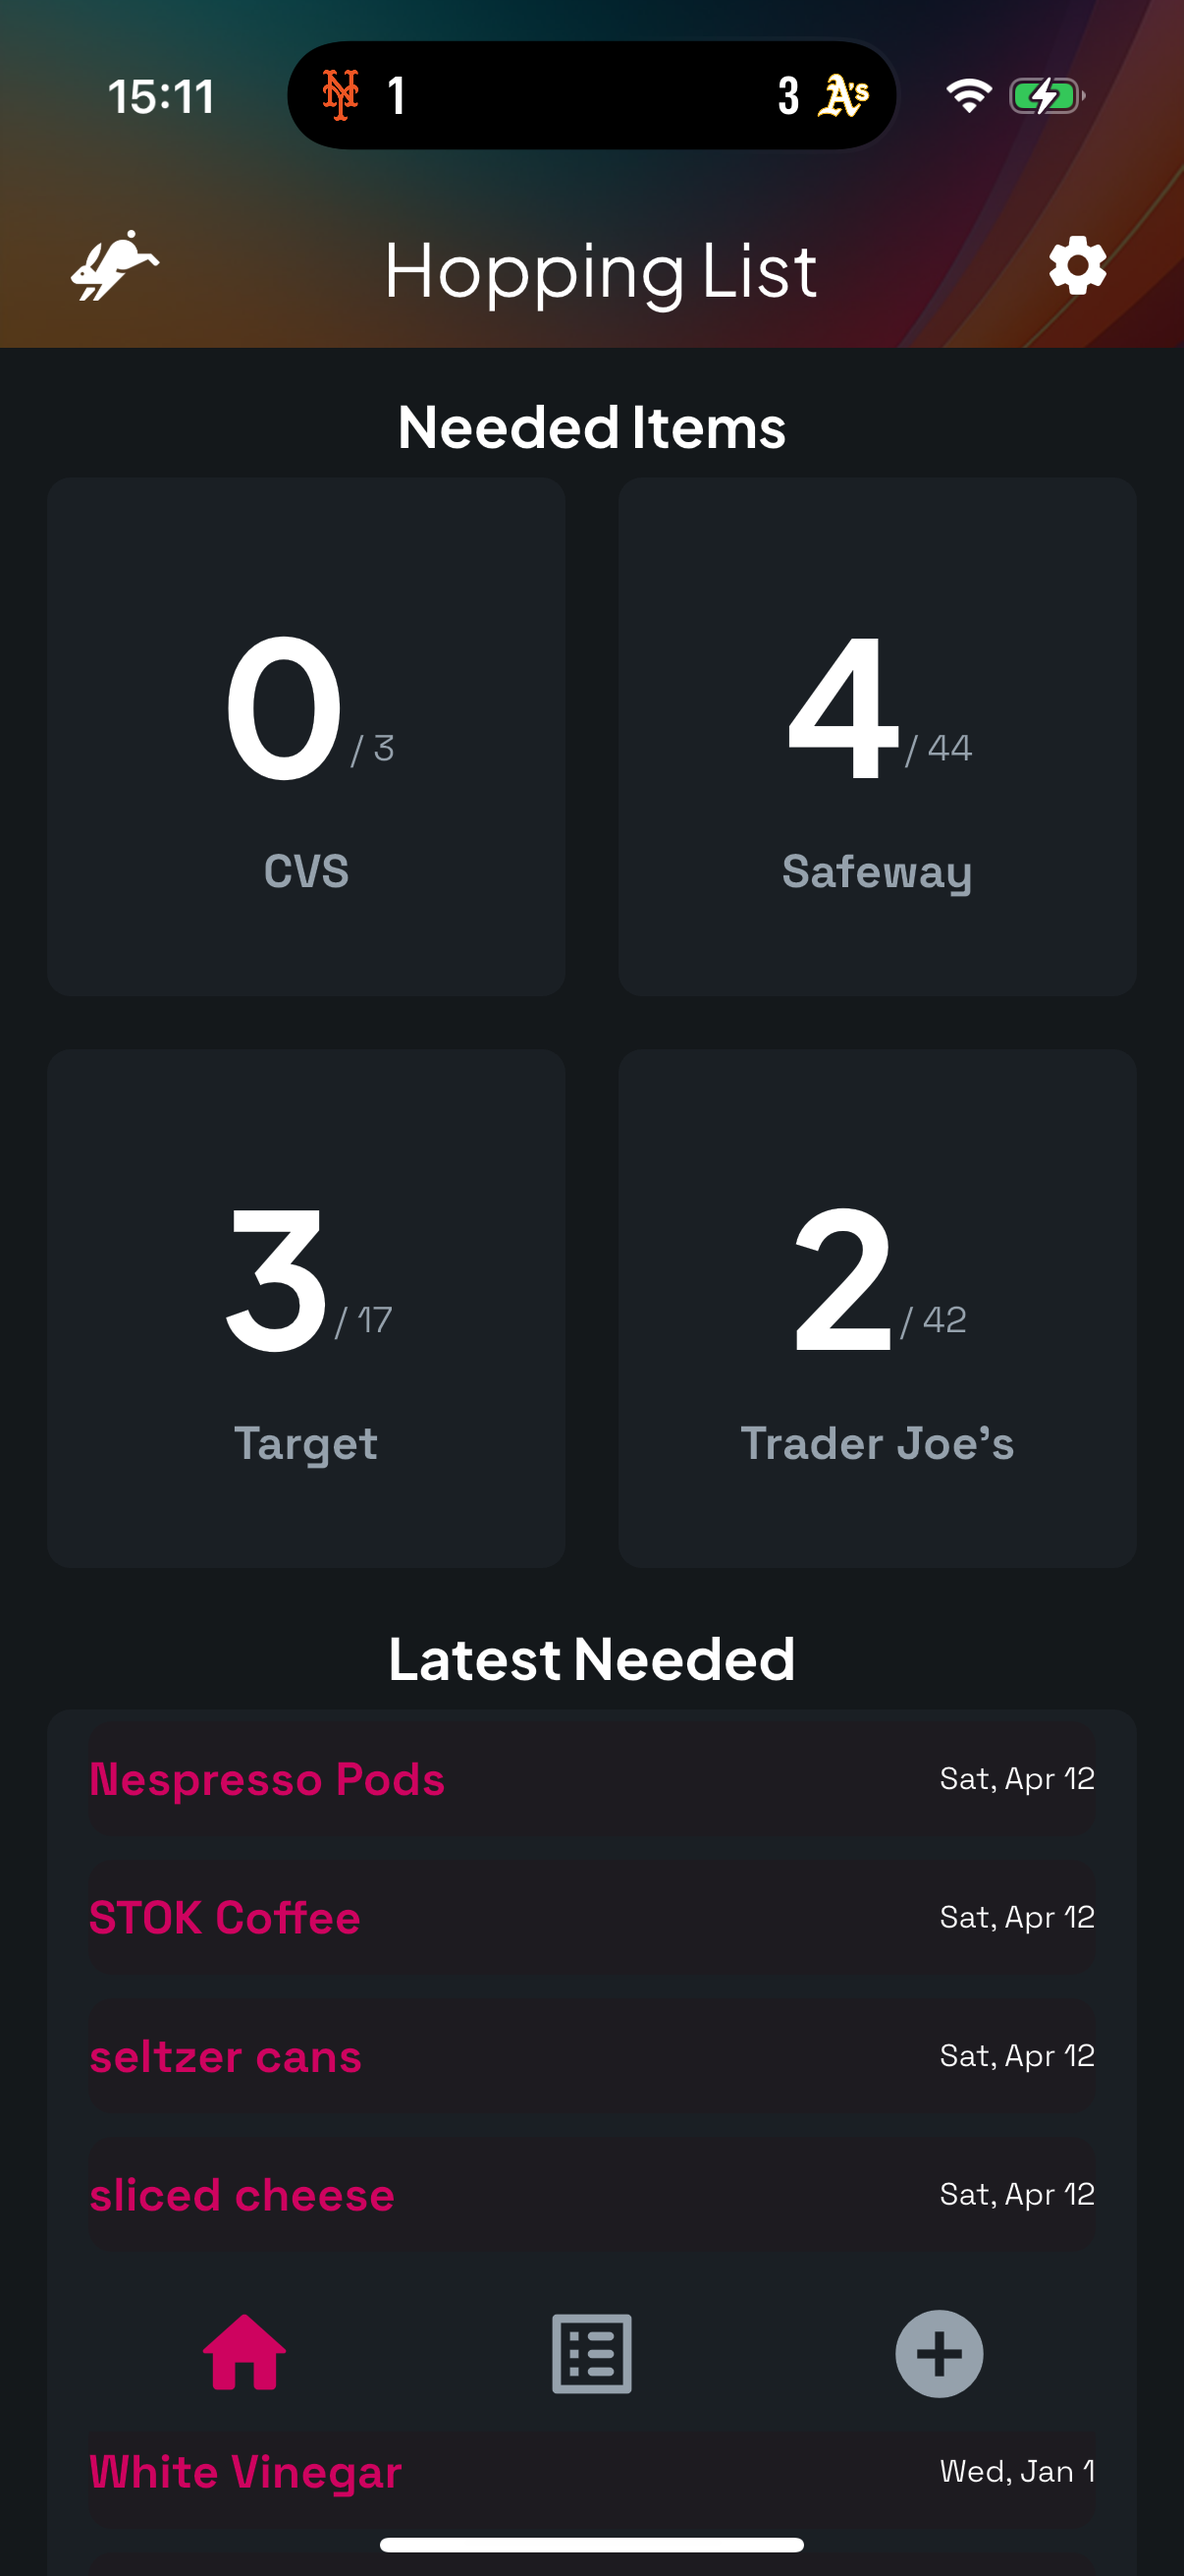
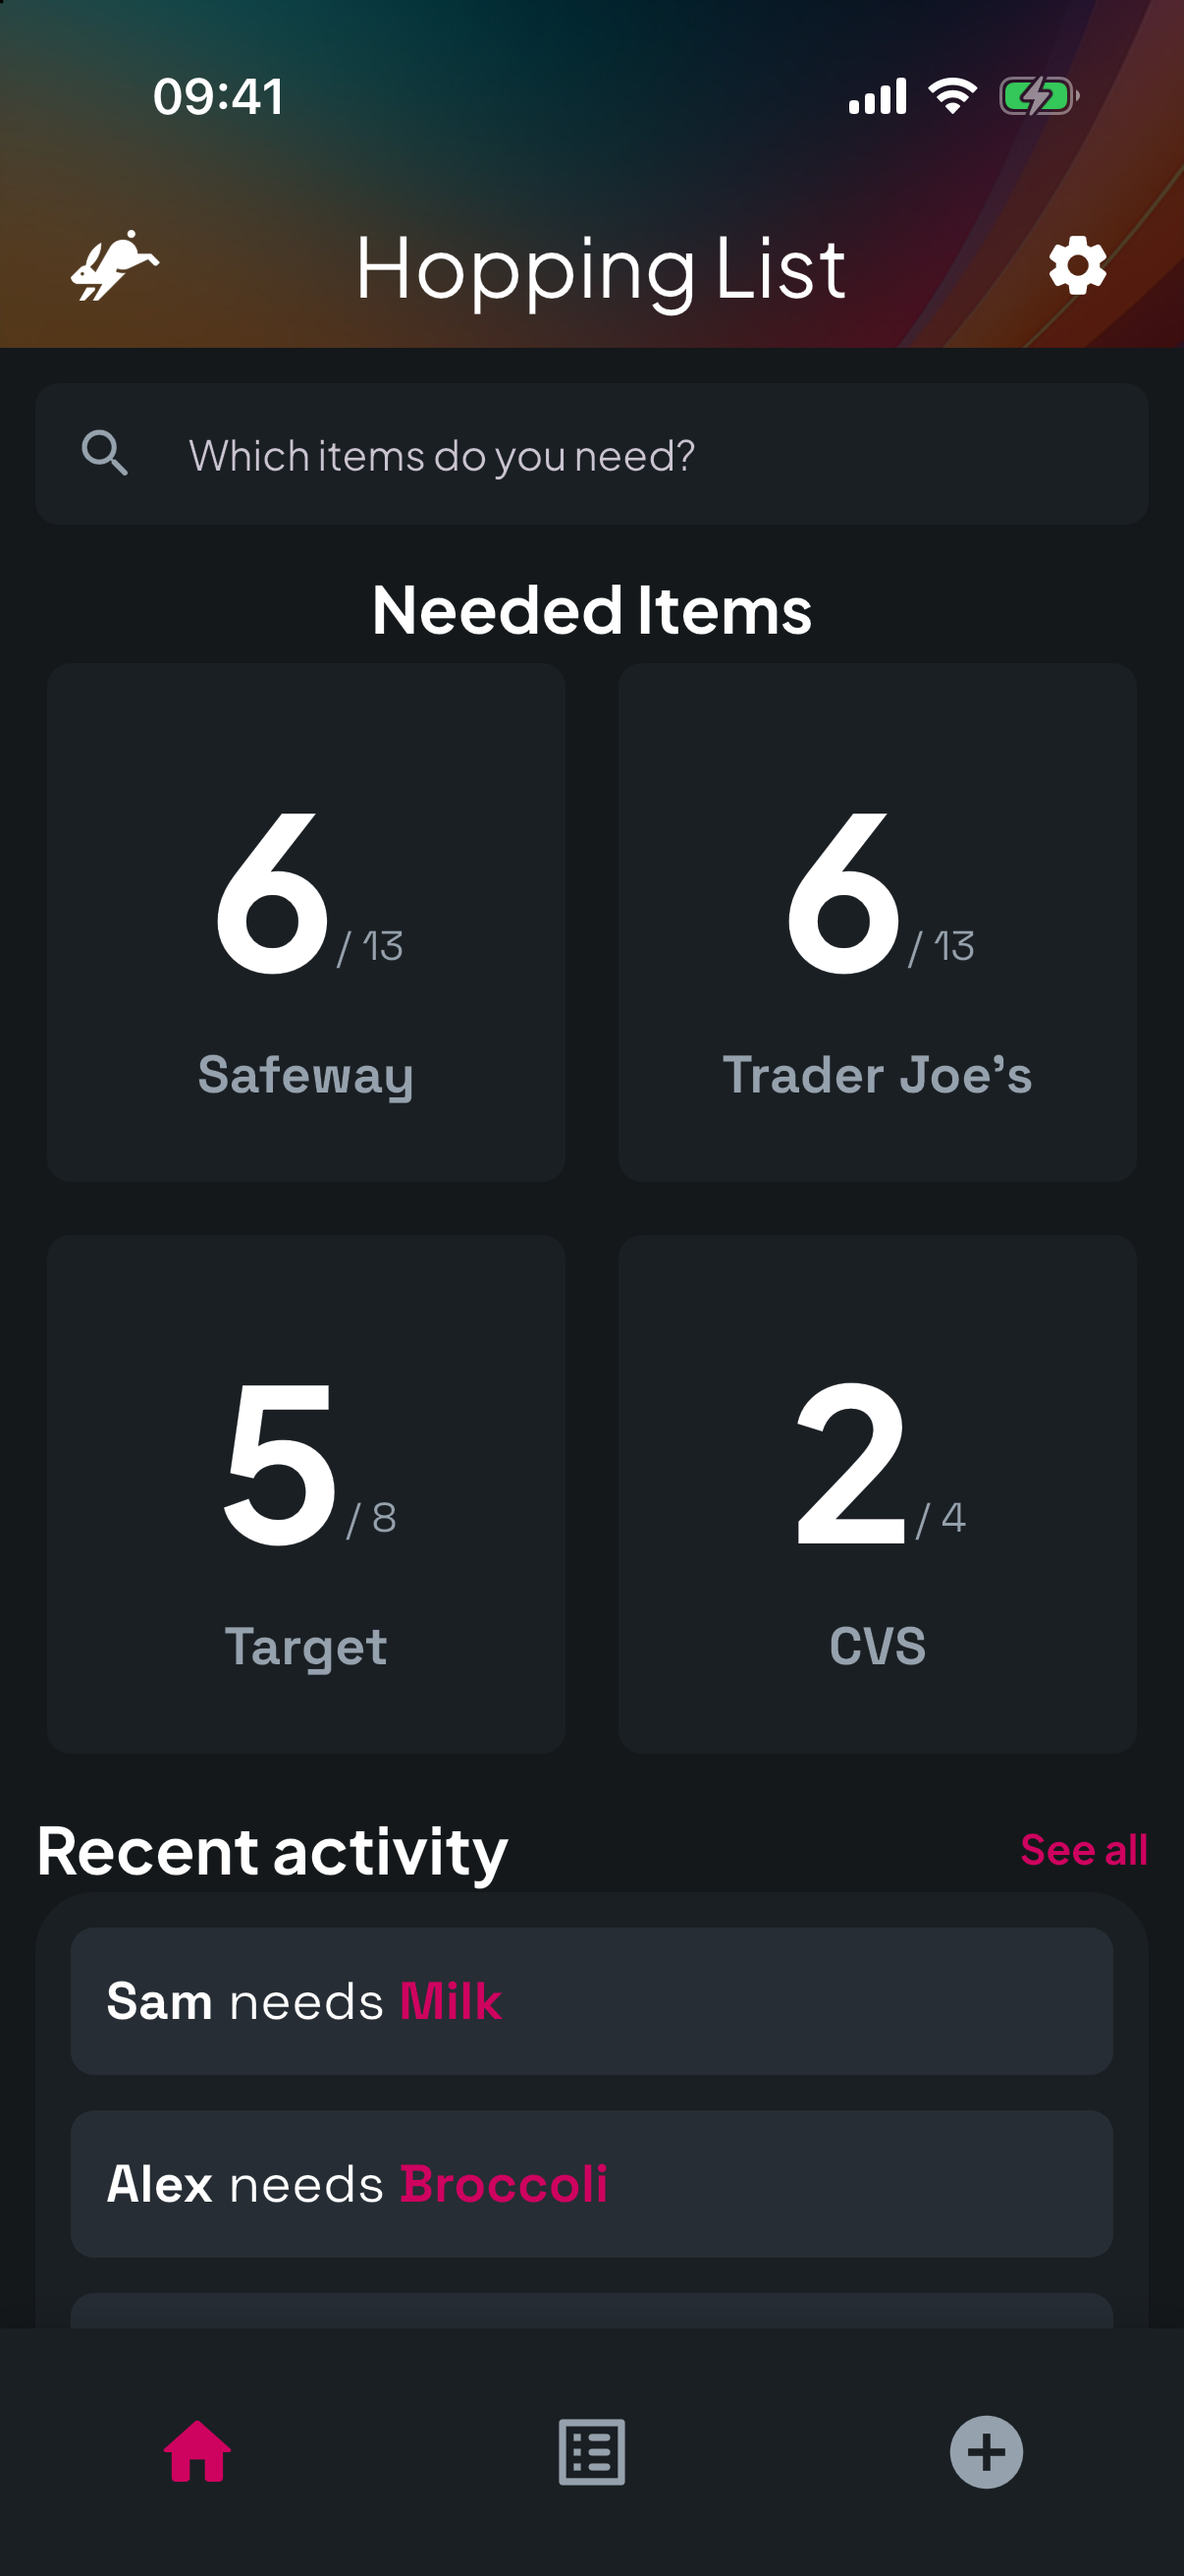
Replace the Hopping List screenshots with the 2.0.6 screens
The four app screenshots were from April 2025 and showed screens the app no longer has. The new ones come from the 2.0.6 build in the iOS simulator, with a made-up household (no real data): home with recent activity, the edit screen, and two store lists in aisle order. Captions and alt text match. The hero image is unchanged.

diff --git a/src/app/building/hopping-list/page.tsx b/src/app/building/hopping-list/page.tsx
@@ -293,56 +293,56 @@ export default function HoppingListPage() {
 						<div className="mb-3">
 							<Image
 								src="/images/projects/hopping-list/homescreen.png"
-								alt="Hopping List Home Screen"
+								alt="Hopping List home screen: needed items per store and recent activity"
 								width={400}
-								height={800}
+								height={870}
 								className="rounded-lg mx-auto"
 							/>
 						</div>
 						<p className="text-center text-[rgba(var(--color-foreground),0.7)]">
-							Home screen showing your stores
+							Home: what you need at each store, and who did what
 						</p>
 					</div>
 					<div className="dark-card p-4">
 						<div className="mb-3">
 							<Image
-								src="/images/projects/hopping-list/edit-apples.png"
-								alt="Editing an item for multiple stores"
+								src="/images/projects/hopping-list/edit-item.png"
+								alt="Editing an item: Milk is checked for Safeway and Target"
 								width={400}
-								height={800}
+								height={870}
 								className="rounded-lg mx-auto"
 							/>
 						</div>
 						<p className="text-center text-[rgba(var(--color-foreground),0.7)]">
-							Adding an item to multiple store locations
+							One item, checked for every store that carries it
 						</p>
 					</div>
 					<div className="dark-card p-4">
 						<div className="mb-3">
 							<Image
 								src="/images/projects/hopping-list/safeway.png"
-								alt="Safeway Shopping List"
+								alt="The Safeway shopping list, sorted in aisle order"
 								width={400}
-								height={800}
+								height={870}
 								className="rounded-lg mx-auto"
 							/>
 						</div>
 						<p className="text-center text-[rgba(var(--color-foreground),0.7)]">
-							Store-specific shopping list for Safeway
+							The Safeway list, in aisle order
 						</p>
 					</div>
 					<div className="dark-card p-4">
 						<div className="mb-3">
 							<Image
 								src="/images/projects/hopping-list/tjs.png"
-								alt="Trader Joe's Shopping List"
+								alt="The Trader Joe's shopping list"
 								width={400}
-								height={800}
+								height={870}
 								className="rounded-lg mx-auto"
 							/>
 						</div>
 						<p className="text-center text-[rgba(var(--color-foreground),0.7)]">
-							Trader Joe's list with different items
+							The Trader Joe&apos;s list, with different items
 						</p>
 					</div>
 				</div>
